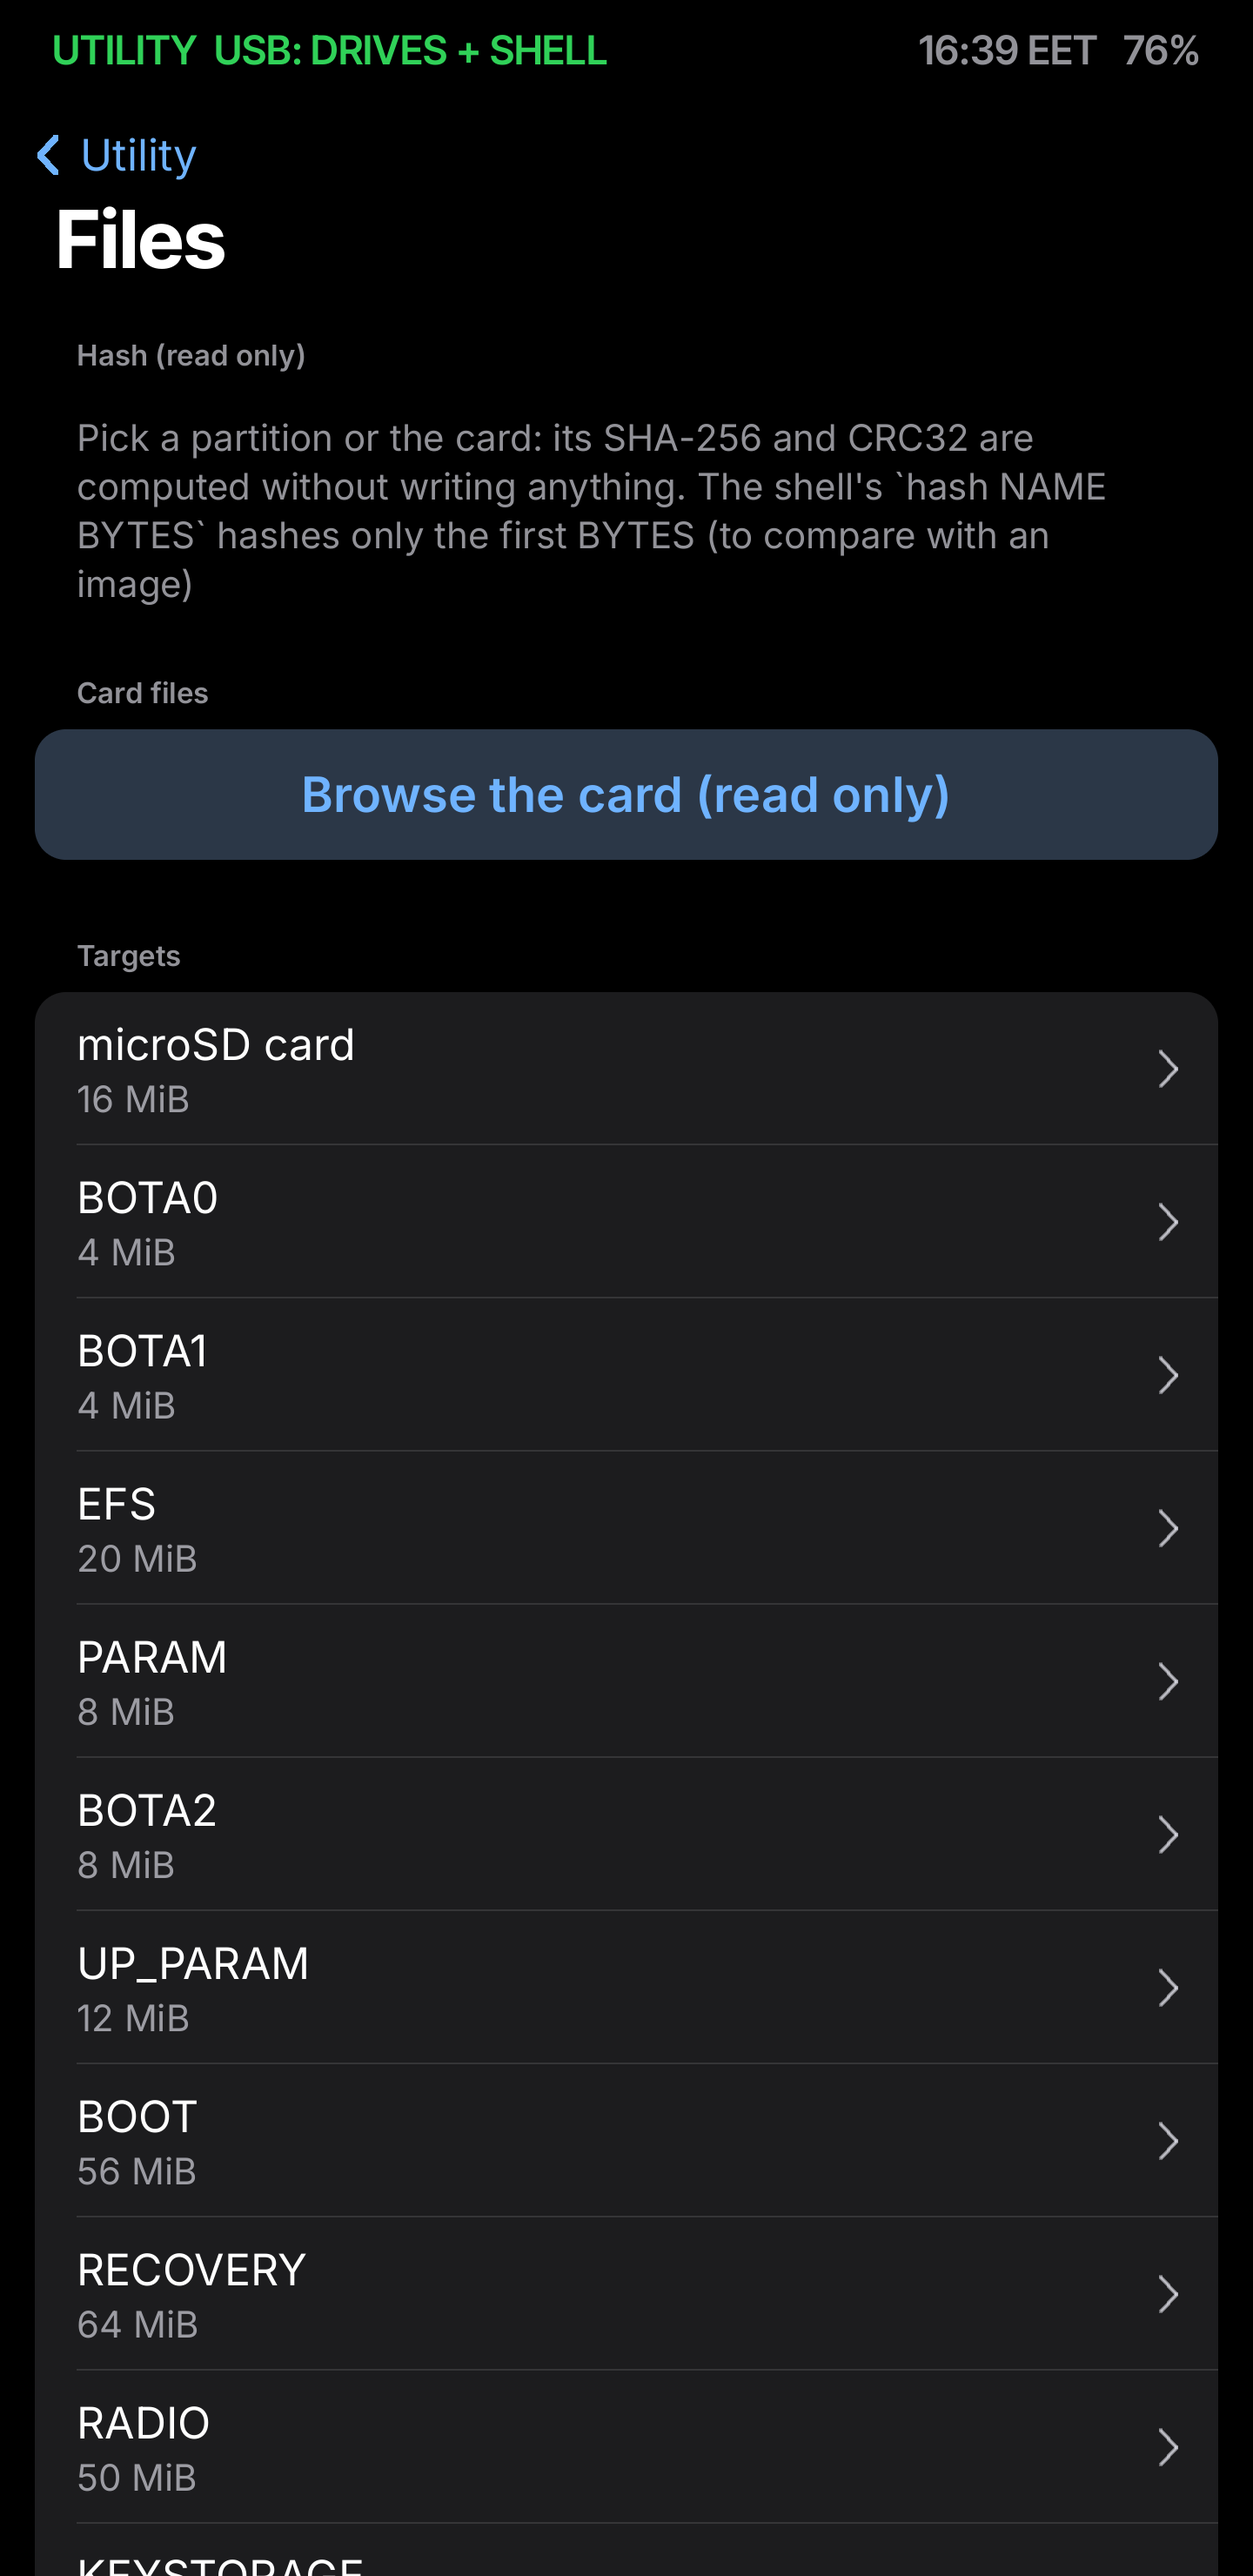
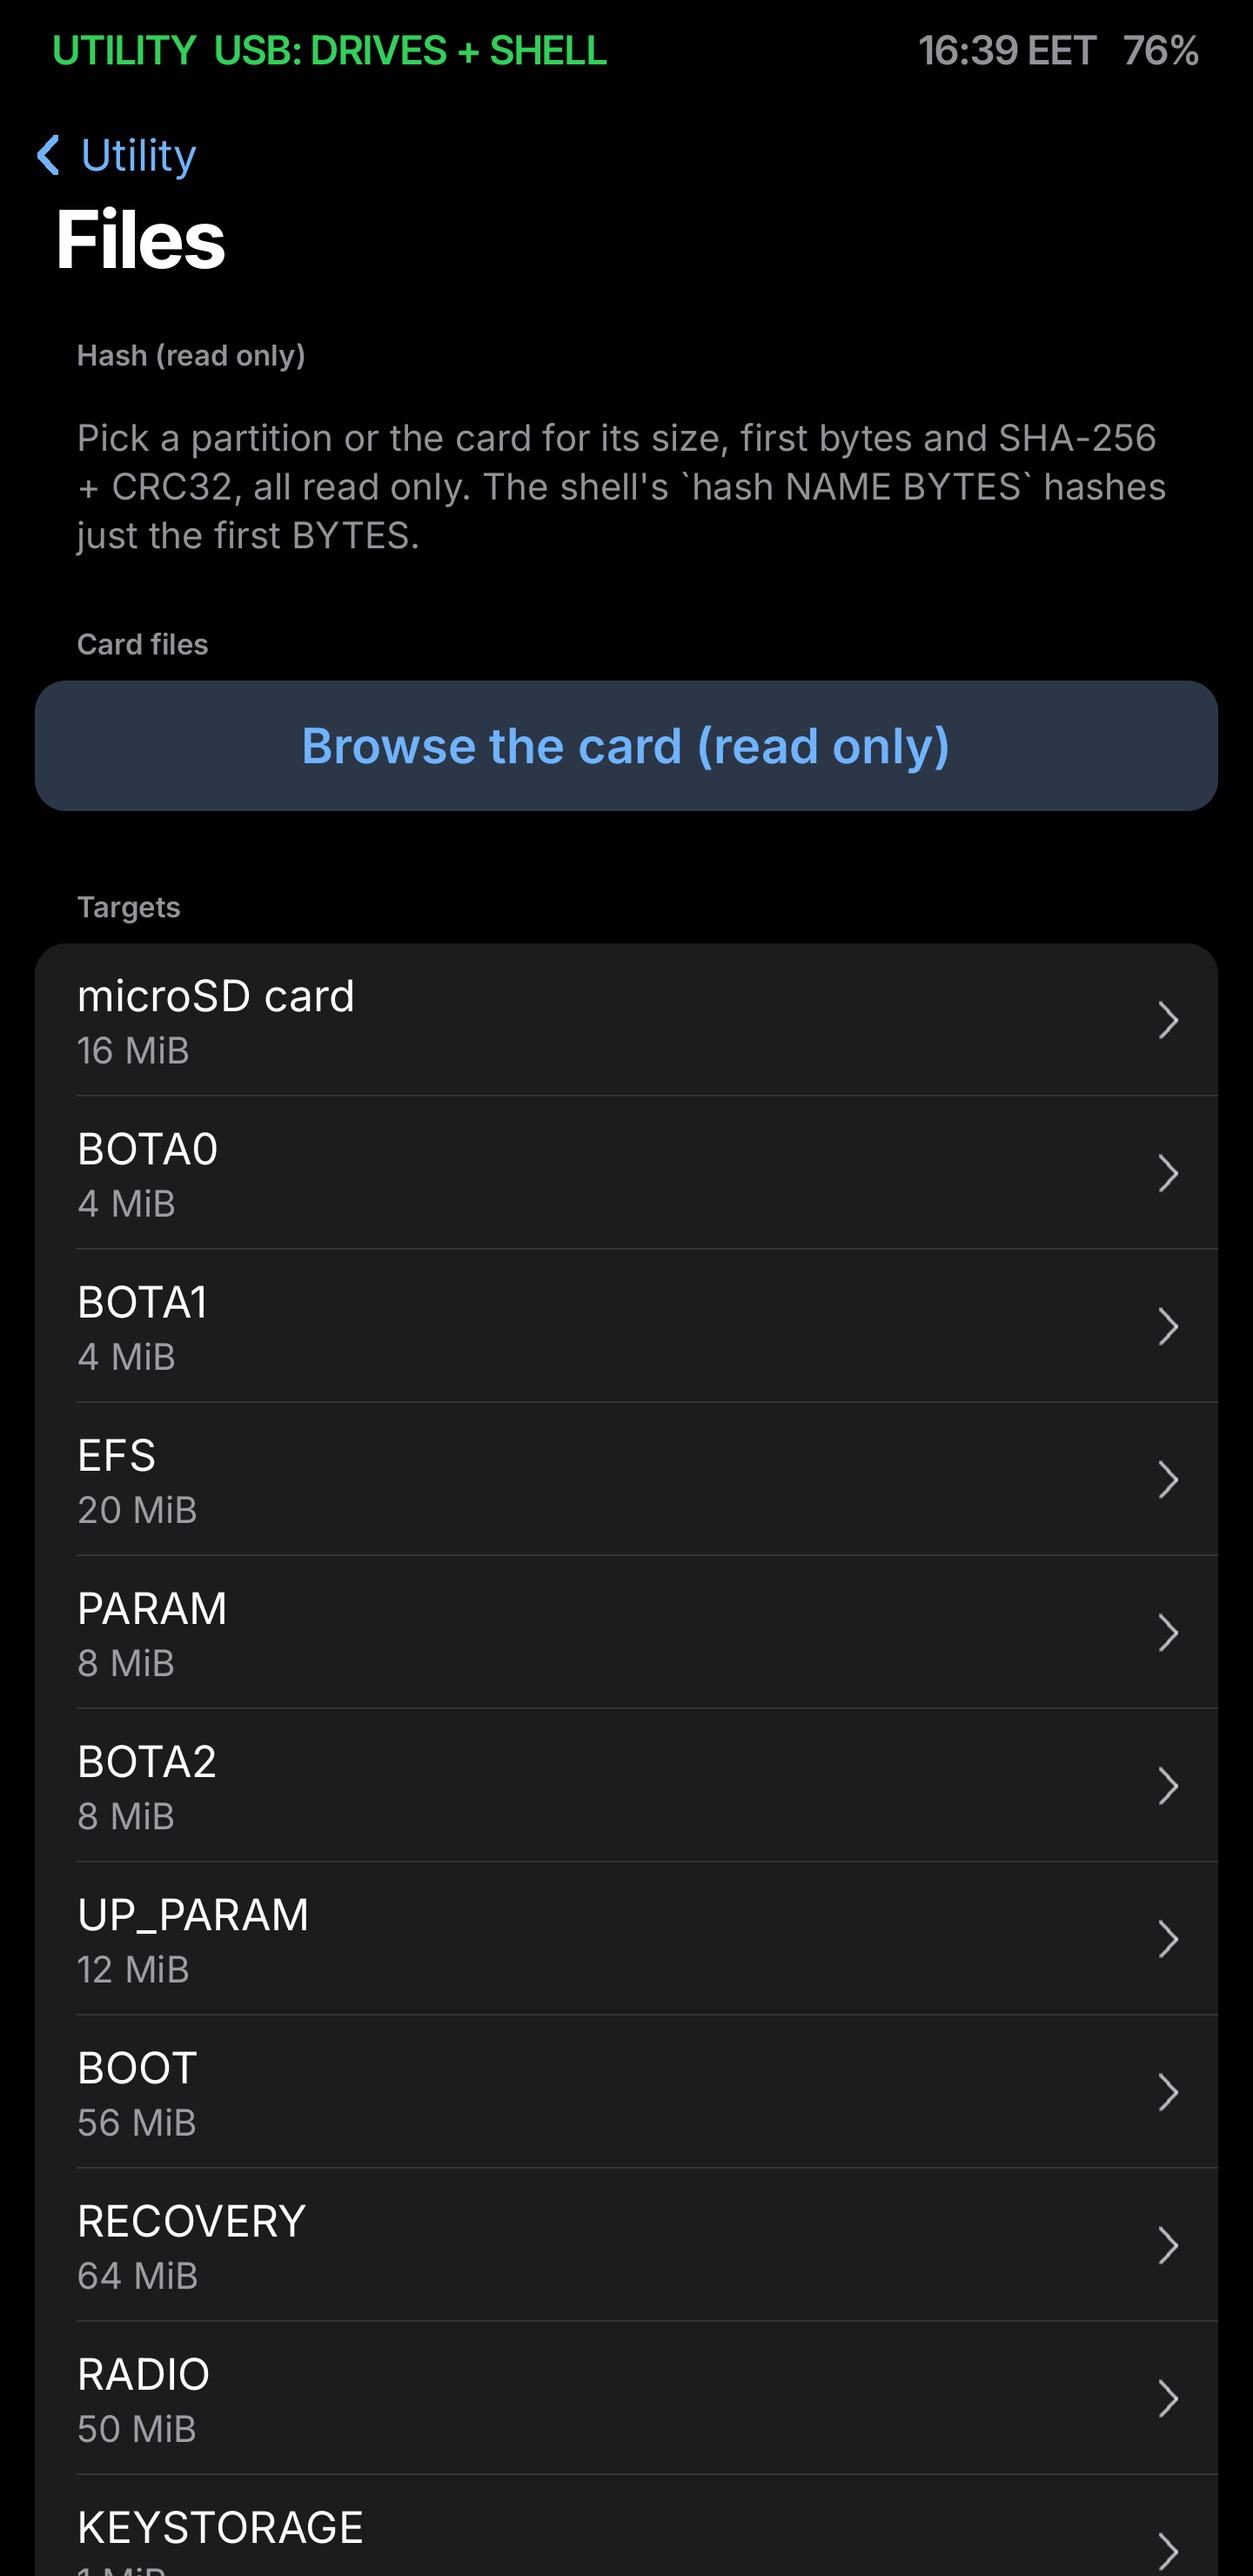
Utility OS: a page per partition and for the card in Files (size, UFS blocks, the first 8 KiB as hex for what the USB drives may offer and the card only, never EFS/PARAM and the like; the hash from a button); main.c's allow-list shared (ut_ufs_allowed); notes kept under the 175-byte page limit

diff --git a/starbite/utility/tools.c b/starbite/utility/tools.c
@@ -618,6 +618,93 @@ static int ut_file(const struct exfat_ent *f)
     return 0;
 }
 
+/* ---- a partition or the whole card: size, its first 8 KiB as hex (only what the USB drives may offer), the hash ---- */
+/* 1 when the hash started */
+static int ut_part(int gi)                               /* gi: GPT index, -1 the card */
+{
+    if (!vbuf)
+        vbuf = sb_alloc(VIEW_MAX);
+    const char *name = gi < 0 ? "microSD card" : gpt_name[gi];
+    uint64_t bytes = gi < 0 ? sd_sectors_hint() * 512ULL : (gpt_last[gi] - gpt_first[gi] + 1) * 4096ULL;
+    int show = gi < 0 || ut_ufs_allowed(gpt_name[gi]);
+    int err = 0;
+    if (gi < 0)
+        sd_allow();
+    if (show && vbuf)
+        err = gi < 0 ? (sd_up() ? sd_read(0, VIEW_HEX / 512U, (uintptr_t)vbuf) : -1)
+                     : ufs_read_to(gpt_first[gi], VIEW_HEX / 4096U, (uintptr_t)vbuf);
+    struct page p;
+    page_init(&p, UI_VIEW_Y0, UI_H);
+    int focus = -1, redo = 1, hrow = -1;
+    ui_fill(0, 0, UI_W, UI_H, C_BG);
+    for (;;) {
+        if (redo) {
+            ui_fill(0, 0, UI_W, UI_VIEW_Y0, C_BG);
+            ui_header_draw(gi < 0 ? "Card" : "Partition", "Files", "READ ONLY", C_L2);
+            ut_status_bar();
+            page_begin(&p);
+            struct ub u;
+            page_hdr(&p, gi < 0 ? "Card" : "Partition");
+            page_kv(&p, "Name", name, 0);
+            ub_init(&u);
+            ub_size(&u, bytes);
+            page_kv(&p, "Size", u.b, 0);
+            if (gi >= 0) {
+                ub_init(&u);
+                ub_dec(&u, gpt_first[gi]);
+                ub_s(&u, " .. ");
+                ub_dec(&u, gpt_last[gi]);
+                page_kv(&p, "UFS blocks (4 KiB)", u.b, 0);
+            }
+            hrow = page_button(&p, hash_job.state == HASH_RUNNING ? "A hash is running" : "SHA-256 + CRC32 of all of it",
+                               hash_job.state == HASH_RUNNING ? C_L3 : C_STAR);
+            if (!show) {
+                page_note(&p, "Bytes are shown only for what the USB drives may offer (BOOT, SYSTEM, VENDOR, ODM, WINESP, "
+                              "WINDOWS, A16DATA, USERDATA) and the card.", C_L3);
+                page_note(&p, "EFS, PARAM and the like hold the phone's identity: hash only.", C_L3);
+            } else if (err || !vbuf) {
+                page_note(&p, "It did not read.", C_ORANGE);
+            } else {
+                page_hdr(&p, "The first 8 KiB (hex)");
+                (void)view_hex(&p, vbuf, VIEW_HEX);
+            }
+            page_end(&p);
+            page_set_focus(&p, focus);
+            page_redraw(&p);
+            ui_present();
+            redo = 0;
+        }
+        struct ui_ev e;
+        ui_poll(&e, 20);
+        ut_service();
+        if (e.type == EV_BACK || e.type == EV_HOME || e.type == EV_SWIPE_R || (e.type == EV_TAP && ui_header_back_hit(e.x, e.y)))
+            break;
+        int pick = -1;
+        if (page_scroll_event(&p, &e)) {
+            ;
+        } else if (e.type == EV_UP || e.type == EV_DOWN) {
+            focus = focus < 0 ? hrow : -1;
+            page_set_focus(&p, focus);
+            ui_present();
+        } else if (e.type == EV_SELECT && focus >= 0) {
+            pick = focus;
+        } else if (e.type == EV_TAP) {
+            pick = page_hit(&p, e.x, e.y, 0);
+        }
+        if (pick == hrow && hrow >= 0 && hash_job.state != HASH_RUNNING) {
+            if (gi < 0)
+                (void)hash_start_card(0);
+            else
+                (void)hash_start_part(gpt_name[gi], 0);
+            page_free(&p);
+            return 1;
+        }
+        page_fling_step(&p);
+    }
+    page_free(&p);
+    return 0;
+}
+
 static void ut_browse(void)
 {
     struct page p;
@@ -698,8 +785,8 @@ static void files_fill(struct page *p)
     const struct hash_job *j = &hash_job;
     page_hdr(p, "Hash (read only)");
     if (j->state == HASH_IDLE) {
-        page_note(p, "Pick a partition or the card: its SHA-256 and CRC32 are computed without writing anything. "
-                     "The shell's `hash NAME BYTES` hashes only the first BYTES (to compare with an image).", C_L2);
+        page_note(p, "Pick a partition or the card for its size, first bytes and SHA-256 + CRC32, all read only. "
+                     "The shell's `hash NAME BYTES` hashes just the first BYTES.", C_L2);
     } else {
         page_kv(p, "Target", j->name, C_L1);
         ub_init(&u);
@@ -812,16 +899,14 @@ void ut_files(void)
             next = 0;
             pick = -1;
         }
-        if (pick >= 0 && hash_job.state != HASH_RUNNING) {
-            for (int i = 0; i < files_nrows; ++i)
-                if (files_rows[i] == pick) {
-                    if (i == 0)
-                        (void)hash_start_card(0);
-                    else
-                        (void)hash_start_part(gpt_name[i - 1], 0);
-                    next = 0;
-                }
-        }
+        for (int i = 0; pick >= 0 && i < files_nrows; ++i)
+            if (files_rows[i] == pick) {
+                (void)ut_part(i - 1);                 /* its page: the bytes and the hash button */
+                ui_input_reset();
+                ui_fill(0, 0, UI_W, UI_H, C_BG);
+                next = 0;
+                break;
+            }
         page_fling_step(&p);
     }
     page_free(&p);

diff --git a/starbite/utility/main.c b/starbite/utility/main.c
@@ -58,6 +58,15 @@ static unsigned nlun, nlun_base;                      /* nlun_base: RAM disk + c
 static int ufs_offered;
 /* UFS partitions offered as read-only drives (master plan 4.4: never-touch ones are not offered) */
 static const char *const ufs_allow[] = { "BOOT", "SYSTEM", "VENDOR", "ODM", "WINESP", "WINDOWS", "A16DATA", "USERDATA" };
+
+/* 1 for a partition the USB drives may offer (and Files may show the bytes of) */
+int ut_ufs_allowed(const char *name)
+{
+    for (unsigned i = 0; i < sizeof(ufs_allow) / sizeof(ufs_allow[0]); ++i)
+        if (sb_streq(name, ufs_allow[i]))
+            return 1;
+    return 0;
+}
 static uint64_t ram_base, ram_bytes;
 static const char *ram_why = "";
 static int card_state;                                /* 0 not tried, 1 up, -1 failed */

diff --git a/starbite/utility/ut.h b/starbite/utility/ut.h
@@ -15,5 +15,6 @@ int ut_now(int64_t *t);                 /* UTC epoch from the RTC (clock.c), 0 i
 void ut_clock_status(struct ub *u);     /* "14:41 EET   87%" for the status bar */
 void ut_clock_card(char *big, unsigned big_n, char *small, unsigned small_n);
 void ut_world(void);                    /* the world clock page */
+int ut_ufs_allowed(const char *name);   /* main.c's allow-list: drives and the hex view */
 struct exfat;
 struct exfat *ut_card(void);           /* the card's exFAT (tools.c), 0 if not readable */

diff --git a/docs/UTILITY-OS.md b/docs/UTILITY-OS.md
@@ -12,7 +12,7 @@ milestones **UO1** (USB device mode with a serial shell) and **UO2** (the phone 
 | USB drives | Plug the phone into a computer: two drives appear. **RAM disk**: FAT32, label `STARBITE`, read-write, up to 1 GiB of DRAM bank 2 (gone when the phone restarts: copy files off first). It starts with `README.TXT`, `PHONE.TXT` (serial, memory banks, the card, every UFS partition with its blocks), `PMSG.TXT` (**the previous boot's log**: the loader's lines and the OS before, from the pmsg ring) and `LOG.TXT` (this start). **microSD (ro)**: the whole card, **read-only** (it holds the Linux images and backups) |
 | UFS partitions | USB page → **Offer UFS partitions as drives** (or the shell's `ufs on` / `ufs off`): BOOT, SYSTEM, VENDOR, ODM, WINESP, WINDOWS, A16DATA and USERDATA become extra **read-only** drives (512-byte blocks over UFS's 4 KiB ones), to copy them to the computer (`dd` from `/dev/rdiskN`, then compare with the phone's `hash`). USB reconnects when the set changes. EFS, PARAM, KEYSTORAGE and the other never-touch partitions are never offered |
 | Trackpad and keys | USB page → **Trackpad and keys** (UO3): the screen is a trackpad (drag moves the pointer, tap clicks, hold still 0.6 s right-clicks, Volume scrolls), with buttons Copy, Paste, Undo, Cmd Tab, Space, Return, Esc, Mission Control and the media keys Vol -, Play, Vol +, Mute (Mac shortcuts: Command is the HID GUI key). **Your own buttons**: up to 8 macros from `/starbite/macros.toml` on the card replace the first two rows (below). Bixby leaves |
-| Files | **Browse the card** (read only: folders and files on the card's exFAT partition; pick a file for its page: name, size, **its start as text** (the first 64 KiB, wrapped) or **as bytes** (hex, the first 8 KiB) when it is not text, and **SHA-256 + CRC32** of the whole file) and **Hash** every UFS partition or the whole card (live progress, MB/s, time left; keeps running if you leave the page) |
+| Files | **Browse the card** (read only: folders and files on the card's exFAT partition; pick a file for its page: name, size, **its start as text** (the first 64 KiB, wrapped) or **as bytes** (hex, the first 8 KiB) when it is not text, and **SHA-256 + CRC32** of the whole file) and every UFS partition or the whole card: its page shows the size, the UFS blocks, **its first 8 KiB as hex** (only for what the USB drives may offer and the card: EFS, PARAM and the like hold the phone's identity) and **SHA-256 + CRC32** of all of it (live progress, MB/s, time left; keeps running if you leave the page) |
 | Shell | A USB serial port (`/dev/cu.usbmodem*` on a Mac, 115200 8N1, any terminal): `help`, `info` (version, uptime, the RTC as it holds it), `drives` (sizes, traffic, SCSI counters), `parts` (UFS partitions and sizes), `ufs on|off`, `hash NAME [BYTES]` (SHA-256 + CRC32 of a partition or `card`, or of their first BYTES: e.g. `hash SYSTEM 6419857408` checks One UI's system image), `log`, `menu` (restart into the Starbite menu), `maint` (Starbite Maintenance), `off` |
 | Status bar | USB state on the left; local time and battery on the right (the uptime if the RTC does not read) |
 | USB page | Connection state and speed, each drive with its traffic, SCSI command and error counters, the shell state |
